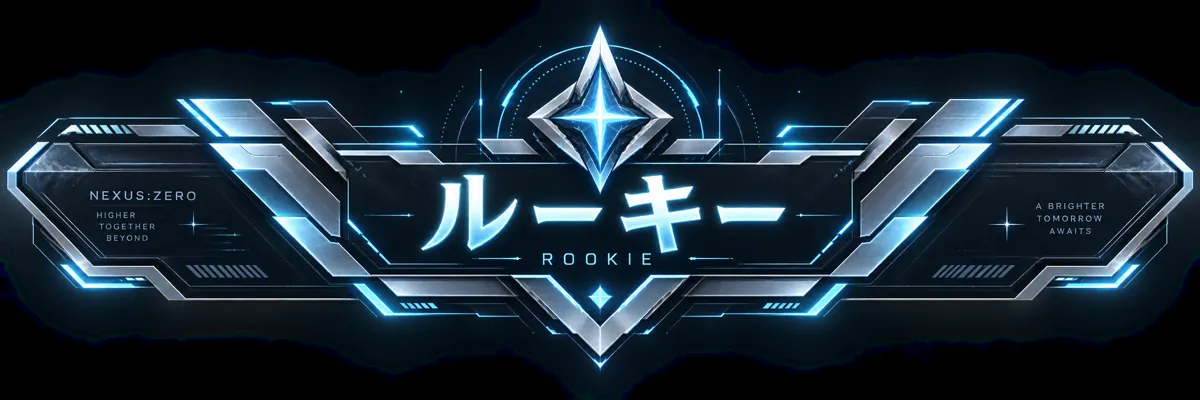
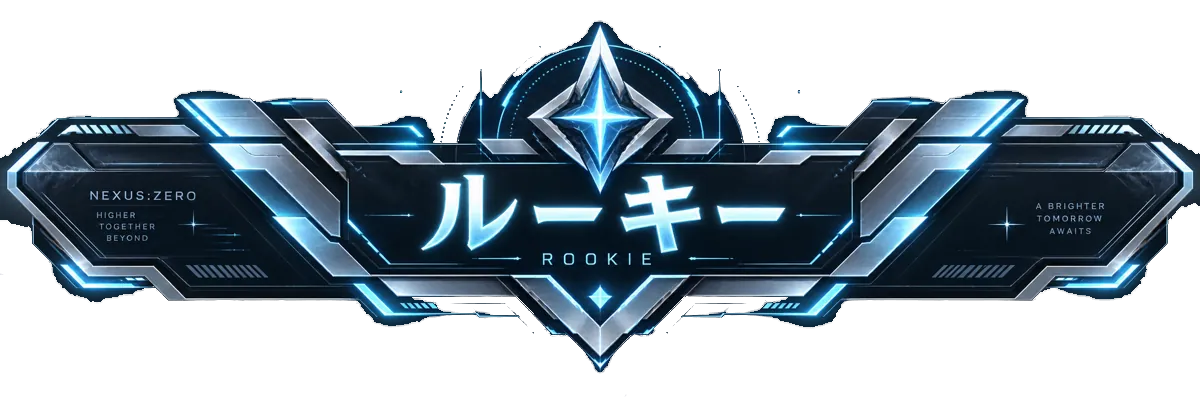
Add files via upload

diff --git a/public/network.html b/public/network.html
@@ -1,6 +1,6 @@
 <!doctype html><html lang="ja"><head><meta charset="utf-8"><meta name="viewport" content="width=device-width,initial-scale=1,viewport-fit=cover"><meta name="theme-color" content="#02050b"><title>NEXUS NETWORK</title><link rel="stylesheet" href="/style.css"><script src="/bgm.js" defer></script><script src="/ui-fx.js" defer></script></head><body class="player-page network-page"><div class="cyber-bg"><div class="scanline"></div></div><nav class="topbar"><a class="brand-mini" href="/" data-nexus-nav="HOME"><span class="brand-pulse"></span>NEXUS:ZERO</a><div class="nav-links"><a href="/" data-nexus-nav="HOME">HOME</a><a href="/rule" data-nexus-nav="RULE">RULE</a><a href="/ranking" data-nexus-nav="RANKING">RANKING</a><a href="/history" data-nexus-nav="HISTORY">HISTORY</a></div></nav><main class="app-shell arena-shell"><section class="system-panel"><div class="panel-head"><div><div class="eyebrow">NEXUS NETWORK</div><h1>NETWORK LINK</h1></div><span class="status-light">ONLINE</span></div><div class="network-tabs"><button data-tab="chat">GLOBAL CHAT</button><button data-tab="friends">FRIENDS</button><button data-tab="live">LIVE BATTLE</button></div><div id="chat" class="network-tab"><div id="chatList" class="chat-list"></div><div class="chat-compose"><input id="chatInput" maxlength="30" placeholder="全体メッセージ / 30文字まで"><button id="chatSend">SEND</button></div><p id="chatCooldown" class="system-note"></p></div><div id="friends" class="network-tab hidden"><div class="friend-search"><input id="friendCode" inputmode="numeric" maxlength="4" placeholder="PLAYER ID"><button id="friendSearchBtn">SEARCH</button></div><div id="friendSearchResult"></div><div id="friendList"></div><div id="dmBox" class="dm-box hidden"><div class="dm-head"><strong id="dmName"></strong><button id="dmClose">×</button></div><div id="dmMessages" class="dm-messages"></div><div class="chat-compose"><input id="dmInput" maxlength="100" placeholder="個別メッセージ"><button id="dmSend">SEND</button></div></div></div><div id="live" class="network-tab hidden"><div id="liveList" class="live-match-list"></div></div></section></main><div id="profileAction" class="nexus-picker hidden"><div class="nexus-picker-card compact-profile-card"><button id="profileClose" class="picker-close">×</button><div id="profileBody"></div><button id="profileFriend">フレンド申請</button><button id="profileBattle">対戦申請</button></div></div><script>
 const $=s=>document.querySelector(s),token=localStorage.getItem('nexusParticipantToken')||'';if(!token)location.href='/';const esc=s=>{const d=document.createElement('div');d.textContent=s??'';return d.innerHTML};const api=async(u,o={})=>{const r=await fetch(u,{cache:'no-store',...o,headers:{'Content-Type':'application/json','X-Participant-Token':token,Authorization:'Bearer '+token,...(o.headers||{})}});const d=await r.json().catch(()=>({}));if(!r.ok)throw new Error(d.error||'通信エラー');return d};const av=k=>`/avatars/${/^avatar-(0[1-9]|1[0-2])$/.test(k||'')?k:'avatar-01'}.webp`;let selectedProfile=null,dmUser=null,cooldownUntil=0;let chatSig='',friendsSig='',liveSig='',dmSig='';
-function titleImg(t){return t?.image||'/titles/rookie.webp'}function profileMini(u){return `<button class="chat-avatar" data-profile='${JSON.stringify(u).replaceAll("'","&#39;")}'><img src="${av(u.avatarKey)}"></button><div class="chat-id"><strong>${esc(u.name)}</strong><img class="mini-title-img" src="${titleImg(u.title)}"><small>#${esc(u.code)}</small></div>`}function profileDetail(u){return `<div class="profile-avatar-large"><img src="${av(u.avatarKey)}" alt=""></div><div class="profile-copy"><span class="profile-kicker">PLAYER PROFILE</span><strong class="profile-name">${esc(u.name)}</strong><img class="profile-title-large" src="${titleImg(u.title)}" alt=""><small class="profile-code">#${esc(u.code)}</small></div>`}
+function titleImg(t){return t?.image||'/titles/rookie.webp'}function profileMini(u){return `<button class="chat-avatar" data-profile='${JSON.stringify(u).replaceAll("'","&#39;")}'><img src="${av(u.avatarKey)}"></button><div class="chat-id"><strong>${esc(u.name)}</strong><img class="mini-title-img" src="${titleImg(u.title)}"><small>#${esc(u.code)}</small></div>`}function profileDetail(u){return `<div class="profile-avatar-large"><img src="${av(u.avatarKey)}" alt=""></div><div class="profile-copy"><img class="profile-title-large" src="${titleImg(u.title)}" alt=""><span class="profile-kicker">PLAYER ID</span><small class="profile-code">#${esc(u.code)}</small><span class="profile-kicker profile-name-label">PLAYER NAME</span><strong class="profile-name">${esc(u.name)}</strong></div>`}
 document.querySelectorAll('[data-tab]').forEach(b=>b.onclick=()=>{
   document.querySelectorAll('.network-tab').forEach(x=>x.classList.add('hidden'));
   document.querySelectorAll('[data-tab]').forEach(x=>x.classList.remove('active'));

diff --git a/public/style.css b/public/style.css
@@ -1027,3 +1027,74 @@
   .profile-name{font-size:20px}
   .profile-title-large{width:min(100%,210px)}
 }
+
+
+/* v5.54 title layout / transparency fit */
+.arena-identity .identity-data{
+  min-width:0;
+  display:flex;
+  flex-direction:column;
+  align-items:flex-start;
+}
+.arena-identity .player-title-badge{
+  order:-10;
+  width:100%!important;
+  max-width:280px!important;
+  height:74px!important;
+  min-height:0!important;
+  margin:0 0 10px!important;
+  overflow:visible!important;
+}
+.arena-identity .player-title-badge>img{
+  width:100%!important;
+  height:100%!important;
+  max-width:100%!important;
+  object-fit:contain!important;
+  object-position:left center!important;
+  background:transparent!important;
+}
+.arena-identity .id-display{
+  margin:4px 0 12px!important;
+}
+.arena-identity .identity-data h1{
+  margin:5px 0 0!important;
+}
+.title-option.image-title,
+.title-option.image-title img,
+.profile-title-large,
+.mini-title-img{
+  background:transparent!important;
+}
+.title-option.image-title{
+  background:linear-gradient(90deg,rgba(4,16,27,.74),rgba(7,27,42,.38))!important;
+}
+#profileBody .profile-copy{
+  display:grid;
+  grid-template-columns:1fr;
+  gap:4px;
+}
+#profileBody .profile-title-large{
+  order:0;
+  width:100%!important;
+  max-width:245px!important;
+  height:74px!important;
+  aspect-ratio:auto!important;
+  object-fit:contain!important;
+  object-position:left center!important;
+  margin:0 0 4px;
+}
+#profileBody .profile-kicker{order:1}
+#profileBody .profile-code{order:2}
+#profileBody .profile-name-label{order:3;margin-top:5px}
+#profileBody .profile-name{order:4}
+@media(max-width:560px){
+  .arena-identity .player-title-badge{
+    max-width:235px!important;
+    height:64px!important;
+    margin-bottom:7px!important;
+  }
+  #profileBody .profile-title-large{
+    max-width:205px!important;
+    height:60px!important;
+  }
+}

diff --git a/public/index.html b/public/index.html
@@ -59,10 +59,11 @@
       <div class="arena-identity">
         <button type="button" id="avatarChangeBtn" class="identity-core avatar-core avatar-change-btn" aria-label="アイコン変更"><img id="playerAvatar" src="/avatars/avatar-01.webp" alt="PLAYER AVATAR"></button>
         <div class="identity-data">
+          <button type="button" id="titleBadgeBtn" class="player-title-badge tier-C" aria-label="称号を変更"><img id="selectedTitleImage" src="/titles/rookie.webp" alt="ROOKIE"><span class="title-text-fallback"><strong id="selectedTitleName">ROOKIE</strong><small id="selectedTitleJp">ルーキー</small></span></button>
           <span class="micro-label">PLAYER ID</span>
           <div class="id-display" id="customerCode">----</div>
           <span class="micro-label">PLAYER NAME</span>
-          <h1 id="name"></h1><button type="button" id="titleBadgeBtn" class="player-title-badge tier-C"><img id="selectedTitleImage" src="/titles/rookie.webp" alt="ROOKIE"><span class="title-text-fallback"><strong id="selectedTitleName">ROOKIE</strong><small id="selectedTitleJp">ルーキー</small></span></button>
+          <h1 id="name"></h1>
         </div>
       </div>
       <div class="metric-block points-block arena-metric">

diff --git a/README.md b/README.md
@@ -380,3 +380,10 @@ npm start
 - NEXUS NETWORK の定期更新で内容が変わっていない場合はDOMを再描画しないよう変更。
 - GLOBAL CHAT / LIVE BATTLE は表示中タブだけポーリング。DMも新着がある時だけ再描画。
 - タブ切替のフェードアニメーションと画像の再アニメーションを停止し、画面・アイコン・称号画像のちらつきを抑制。
+
+
+## v5.54
+- HOMEのPLAYER STATUSを「称号 → PLAYER ID → PLAYER NAME」の順に変更。
+- 称号画像の外側黒背景を透過化し、HOME/プロフィール/称号一覧で背景になじむよう調整。
+- 称号画像がモバイルで見切れないよう最大幅・高さ・object-fitを再調整。
+- NETWORKプロフィールも「称号 → ID → 名前」の順に統一。
